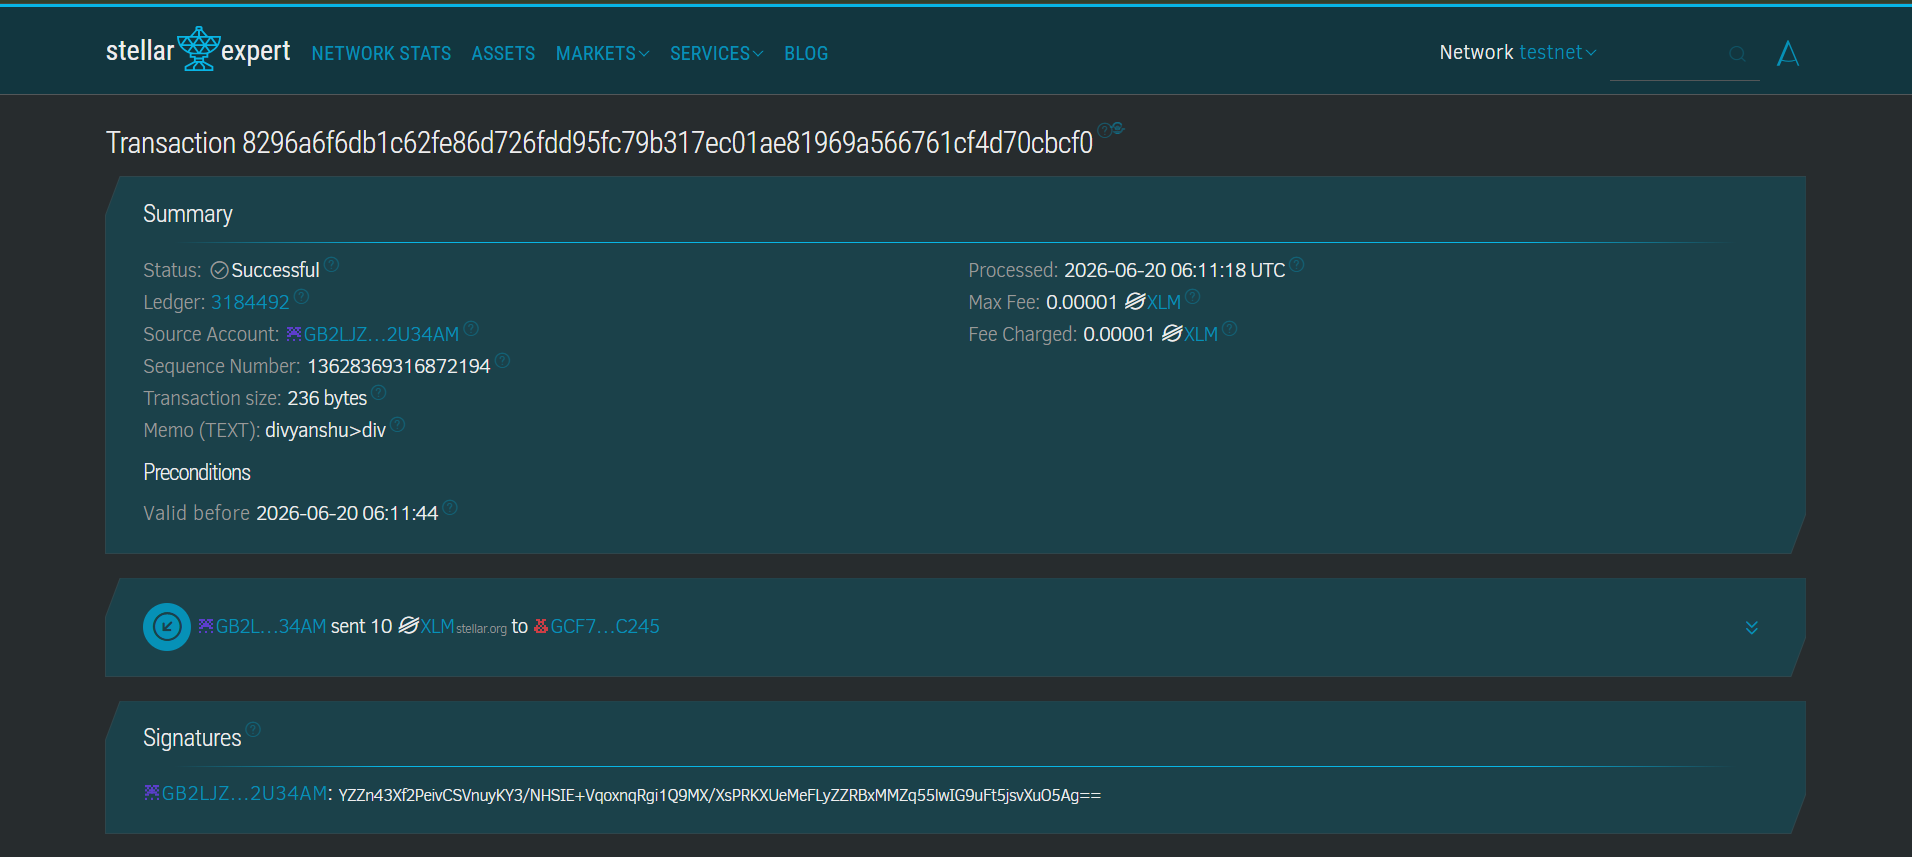
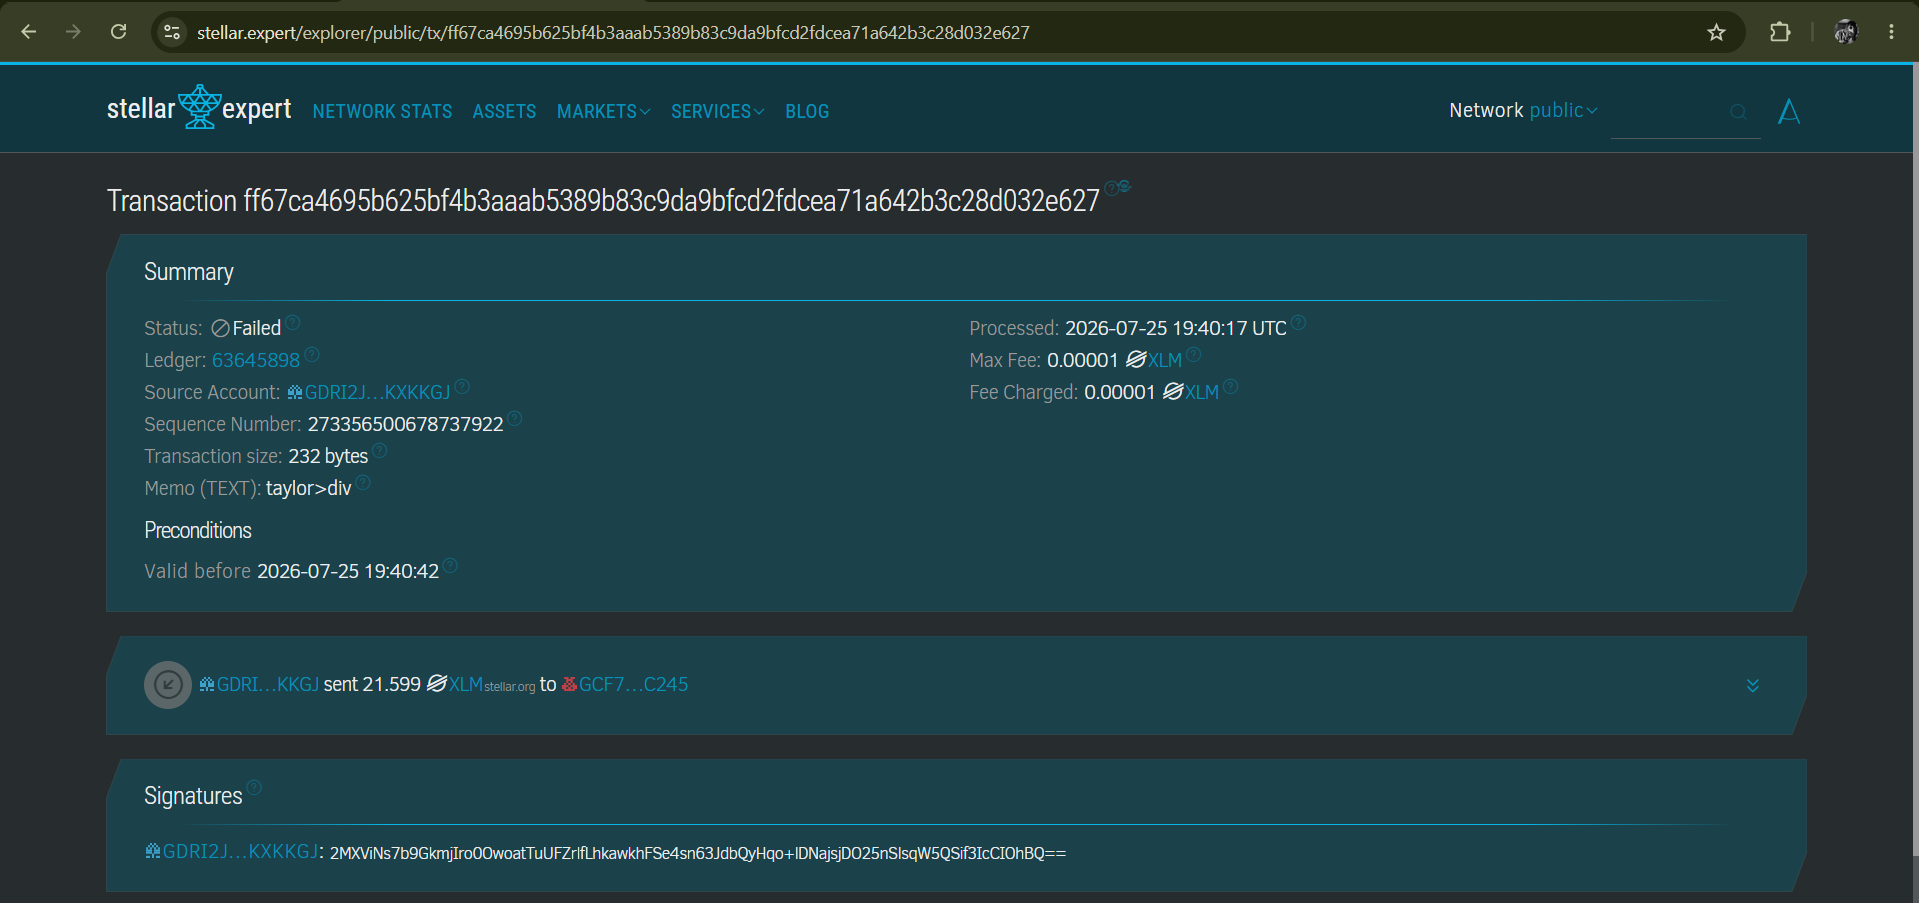
docs: update transaction hash and sync latest screenshots

Changed region(s): [[0.0, 0.0, 1.0, 1.0], [0.4937, 0.3034, 0.6789, 0.4551]]

diff --git a/README.md b/README.md
@@ -370,8 +370,8 @@ Reward math: linear time-based accrual `accrued_expo = xlm_amount × BASE_REWARD
 
 ### Inter-contract call proof
 
[1 lines of base64/hex data omitted]
-- **Explorer:** [View on Stellar Expert](https://stellar.expert/explorer/public/tx/d62faff341a803b549c7c244acb0e1fd502823ee4f9ce815c51cd9eebd473f76)
[1 lines of base64/hex data omitted]
+- **Explorer:** [View on Stellar Expert](https://stellar.expert/explorer/public/tx/ff67ca4695b625bf4b3aaab5389b83c9da9bfcd2fdcea71a642b3c28d032e627)
 - **Ledger:** `667150` · **Type:** `invoke_host_function` (escrow `create` calling ZPAY token `transfer`)
 
 ---
